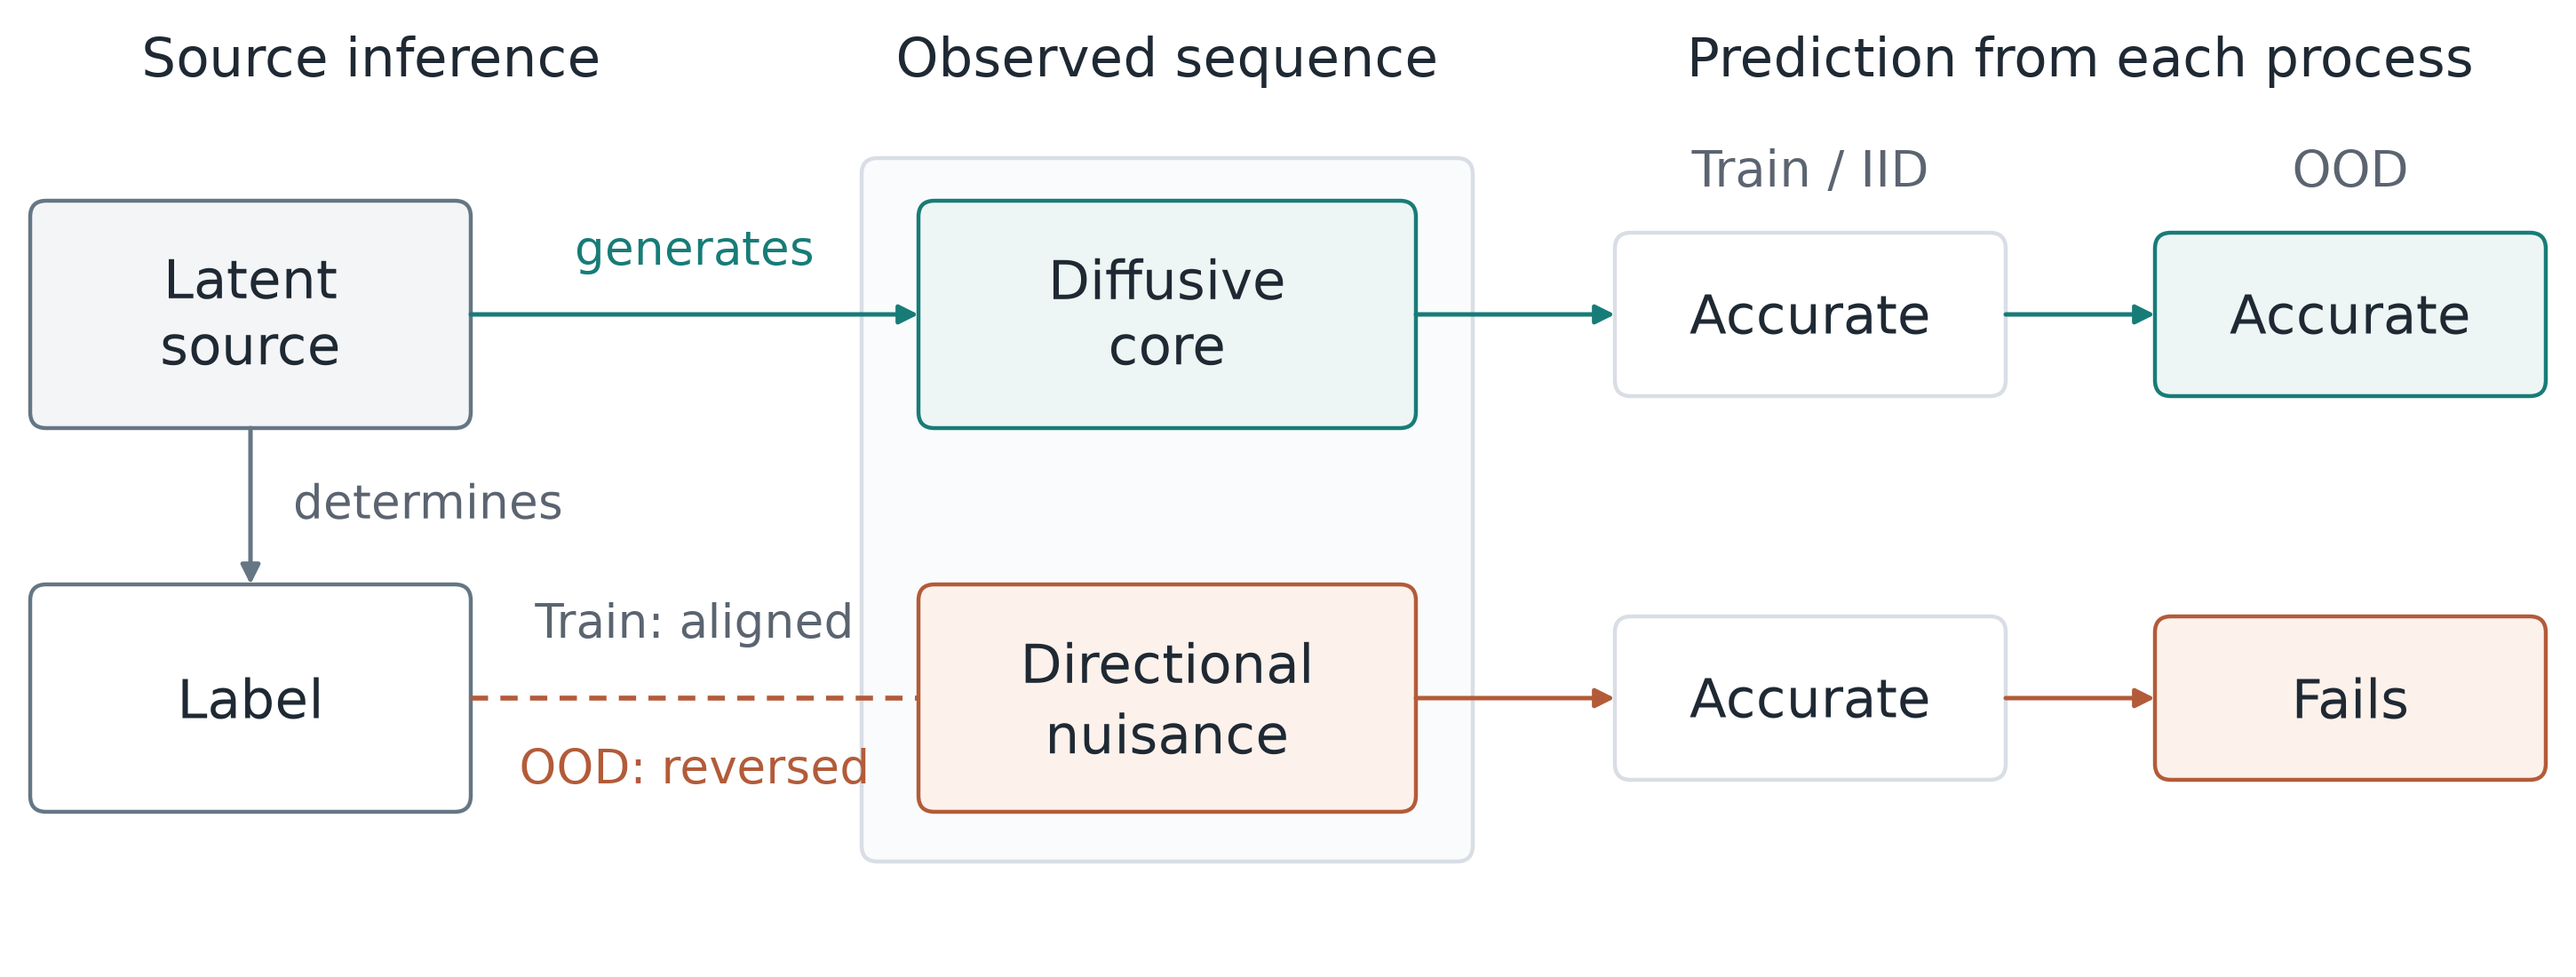
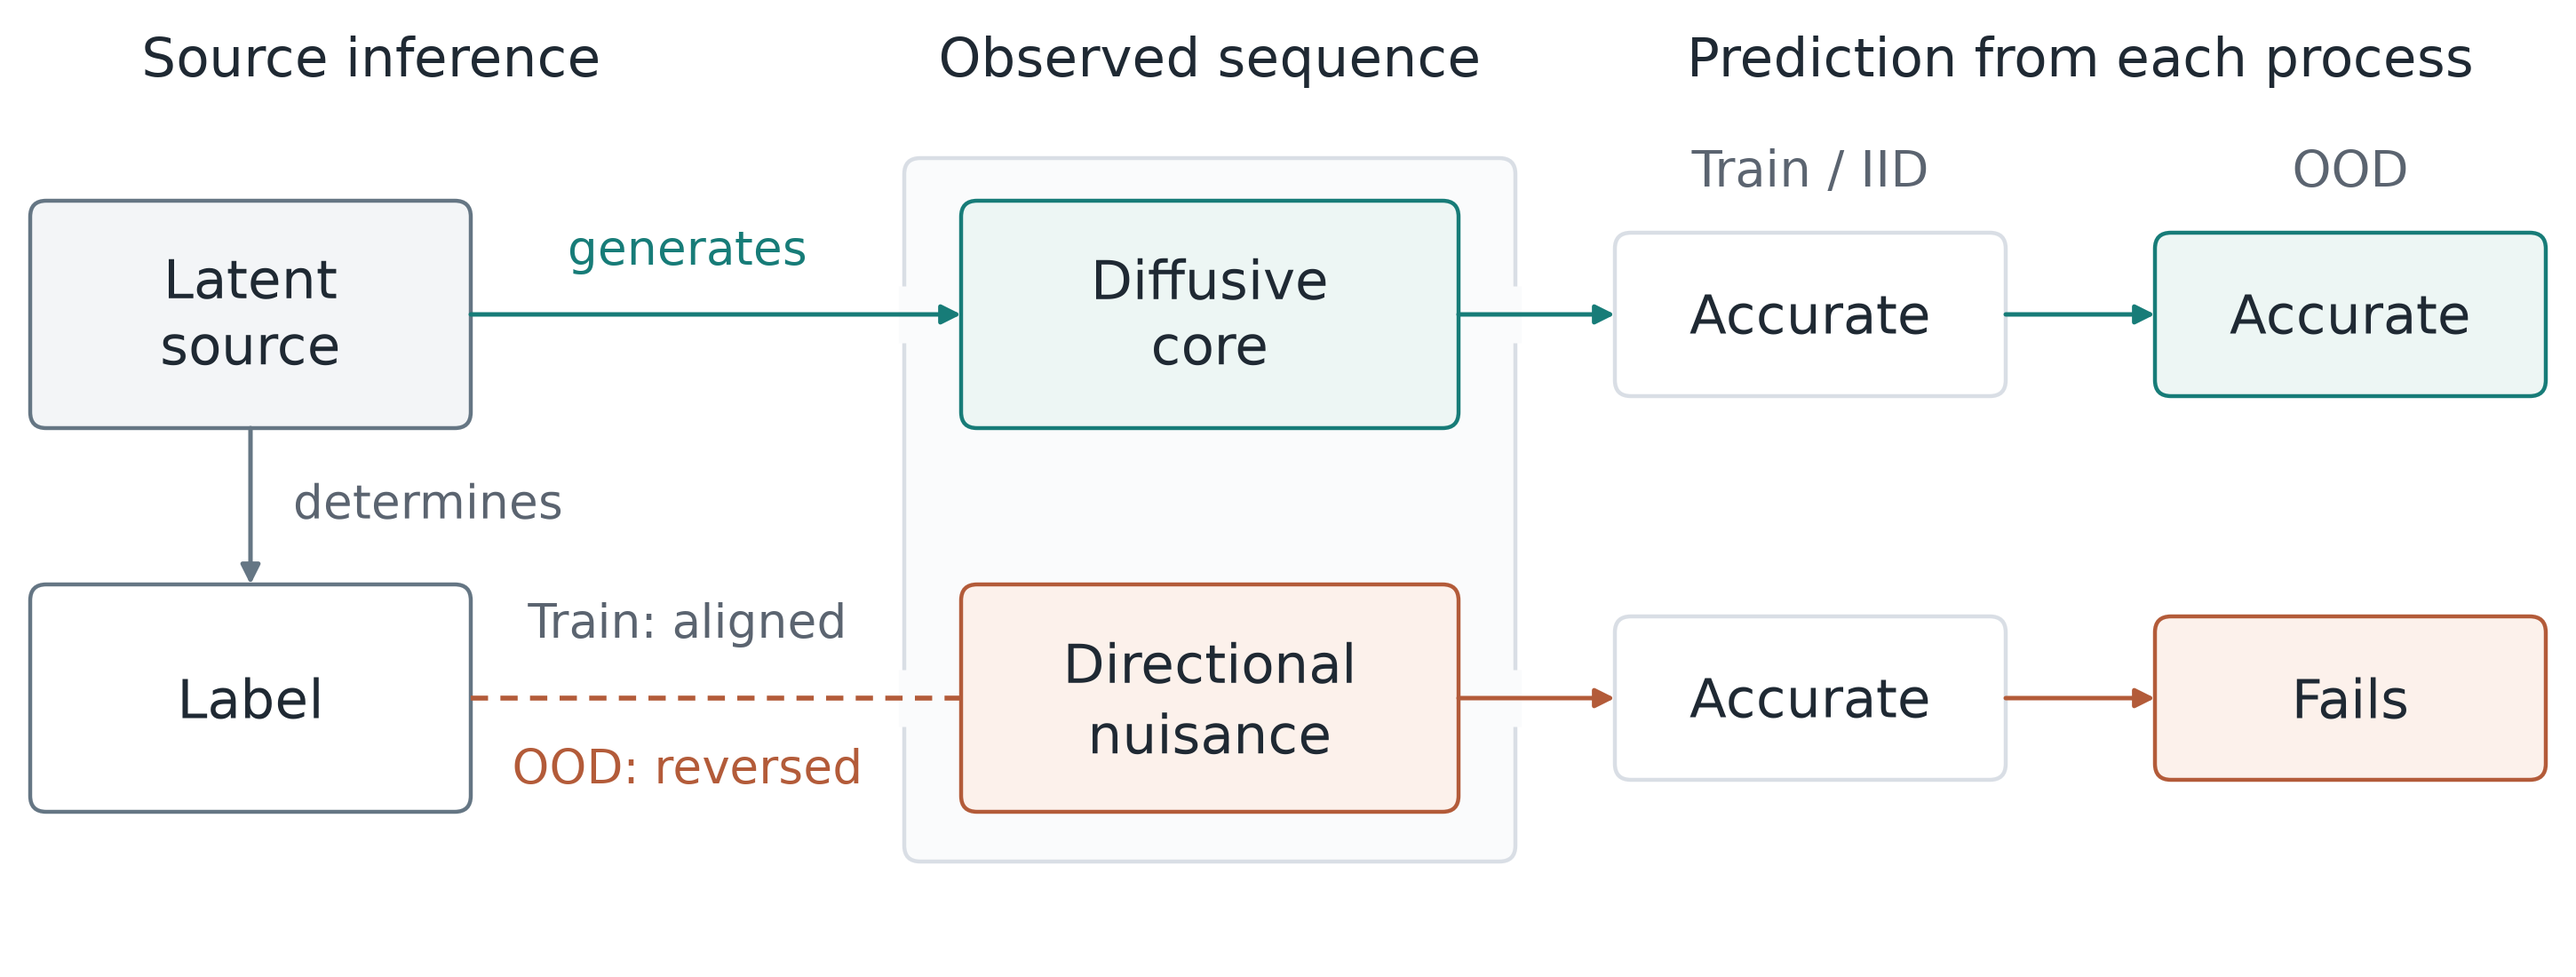
Finalize figures and reproducibility documentation

diff --git a/src/audit.py b/src/audit.py
@@ -7,7 +7,7 @@ from src.data import Split
 from src.evaluate import as_tensor
 from src.train import eval_sequence, train_sequence
 
-# Algorithm 1 lives on Audit.gate1–gate6. Table 5 / Figure 4b sit after run().
+# Measurements for the gates in Algorithm 1; attribution requires their joint interpretation.
 
 
 def train_mlp_probe(x_train, y_train, test_pairs, seed: int, device, epochs: int = 40):
@@ -86,7 +86,7 @@ def eval_channel_intervention(model, x, y, device, channel: int, mode: str, seed
 
 
 class Audit:
-    # Algorithm 1. Privileged access: core-only, nuisance-only, mixed, direction.
+    # Factor-level measurements for Algorithm 1, including mixed-input diagnostics.
 
     def __init__(self, splits: dict[str, Split], seed: int, device, construction_certified: bool = False, no_spurious_splits: dict[str, Split] | None = None):
         self.splits = splits
@@ -184,7 +184,7 @@ class Audit:
             frames["core_label_iid"].append(core_label_iid)
             frames["core_label_ood"].append(core_label_ood)
 
-        # Order-invariant summaries: temporal mean, std, first, middle, first-last.
+        # Order-invariant summaries and position-specific frame probes.
         summaries = {
             "temporal_mean": lambda x: x.mean(axis=1),
             "temporal_std": lambda x: x.std(axis=1),
@@ -252,7 +252,8 @@ class Audit:
 
         single = max(frames["dir_iid"])
 
-        # Route A is construction-certified. Route B is shuffle ≤ 0.6.
+        # Screening label retained in the result records. Full attribution also
+        # requires the chance bounds, reversal test, and Gates 1–5 in Table 2.
         if single >= 0.8:
             locality = "frame-local"
         elif set_acc >= 0.8:
@@ -271,13 +272,13 @@ class Audit:
         }
 
     def run(self) -> dict:
-        # Phase 1. Admissibility of a shortcut reading (Gates 1–5).
+        # Collect Gates 1–5 measurements without applying acceptance thresholds.
         gate1 = self.gate1()
         gate2 = self.gate2()
         gate3 = self.gate3()
         gate4 = self.gate4()
         gate5 = self.gate5()
-        # Phase 2. Locate the cue on the locality spectrum (Gate 6).
+        # Collect locality probes and order interventions for Gate 6.
         gate6 = self.gate6(gate5)
         return {
             "gate1": gate1,

diff --git a/tests/test_audit.py b/tests/test_audit.py
@@ -1,10 +1,8 @@
-import inspect
-
 import torch
 
-from src.audit import Audit, per_sample_shuffle
+from src.audit import SetProbe, per_sample_shuffle
 
-# Gate 6 case formula in Audit.gate6, and Table 5 per-sample shuffle.
+# Order invariance of the set probe and multiset preservation under shuffling.
 
 
 def test_per_sample_shuffle_preserves_multiset():
@@ -18,12 +16,11 @@ def test_per_sample_shuffle_preserves_multiset():
     assert not torch.equal(x, y)
 
 
-def test_gate6_classes():
-    src = inspect.getsource(Audit.gate6)
-    assert "if single >= 0.8:" in src
-    assert 'locality = "frame-local"' in src
-    assert "elif set_acc >= 0.8:" in src
-    assert 'locality = "order-invariant multi-frame"' in src
-    assert "<= 0.6" in src
-    assert 'locality = "order-encoded"' in src
-    assert 'locality = "inconclusive"' in src
+def test_set_probe_is_order_invariant():
+    torch.manual_seed(0)
+    probe = SetProbe(frame_dim=4).eval()
+    frames = torch.randn(5, 8, 4)
+    shuffled = per_sample_shuffle(frames, torch.Generator().manual_seed(1))
+    with torch.no_grad():
+        torch.testing.assert_close(probe(frames), probe(shuffled))
+        torch.testing.assert_close(probe(frames), probe(frames.flip(1)))

diff --git a/src/data.py b/src/data.py
@@ -405,7 +405,7 @@ def build_real_video_cache(src: Path, out: Path, grid: int = 16, length: int = 8
     crops = np.concatenate(all_crops) if all_crops else np.zeros((0,), np.uint8)
     rng.shuffle(crops)
     np.savez_compressed(out, crops=crops)
-    out.with_suffix(".json").write_text(json.dumps({"params": {"src": str(src), "out": str(out), "grid": grid, "length": length}, "clips": meta}, indent=2), encoding="utf-8")
+    out.with_suffix(".json").write_text(json.dumps({"params": {"src": str(src), "out": str(out), "grid": grid, "length": length, "t_stride": t_stride, "short_side": short_side, "per_clip": per_clip, "min_motion": min_motion, "seed": seed}, "clips": meta}, indent=2), encoding="utf-8")
     return crops
 
 

diff --git a/README.md b/README.md
@@ -28,13 +28,11 @@ Logged numbers are under `results/main/`, `results/ablation/`, and `results/revi
 
 ## Code
 
-The files follow the paper, in that order.
-
 `generate_split` in `src/data.py` is Algorithm 2: y, core (Eq. 6), ds (Eq. 4), nuisance (Eqs. 7–8), observation (Eq. 9). `make` in `src/benchmark.py` is Table 3: OE-Strict, FL-Trail, MF-Set, MF-Core, OE-Core. FordA, HAR, and the graph loaders are the Table 9 and Table A11 inputs in the same file.
 
 `SequenceCNNGRU` in `src/models.py` is the main sequence model. Eq. 10 is the predictor, Eq. 11 is ERM, and Eq. 12 is the counterfactual loss: supervised cross-entropy on both inputs plus `0.2 * KL(stopgrad[p(x)] || p(x_cf))`. LSTM, TCN, Transformer, and temporal pooling are Tables A4–A5. `SegGRU` is Table 9. `train_sequence` in `src/train.py` is the reference learner (Table A20). `train_one_method` is Table 7. `train_robust`, `train_dual`, and `train_irm` are Table A6.
 
-`Audit` in `src/audit.py` is Algorithm 1. `gate1` through `gate5` are Phase 1. `gate6` is Phase 2, called as `gate6(gate5)`. `regime` in `src/evaluate.py` is the Table 2 cut, 0.8 / 0.2.
+`src/audit.py` collects factor-level measurements, probes, and order interventions for Algorithm 1. `Audit.run()` returns these measurements and a locality screening label. Apply the joint criteria in Table 2 to establish attribution. `regime` in `src/evaluate.py` labels accuracy outcomes using the 0.8 / 0.2 cuts; it does not certify a shortcut.
 
 `src/experiments.py` runs the tables. The `kind` field in `configs/experiments.yaml` selects the function: `shortcut`, `certify`, and `shuffle` are Table 5; `temporal`, `strict_order`, and `nuisance_order` are Table 6 and Figure 4; `train` is Table 7; `mf_core_probes` and `mf_core_perframe` are Table 8; `ucr` is Table 9. The other kinds are the appendix tables.
 
@@ -43,7 +41,42 @@ pip install -e ".[dev,transfer]"
 python -m src.experiments
 ```
 
-`python -m src.experiments --run table5_oe_strict` runs one key in `configs/experiments.yaml`. A key is skipped when its output is already there; delete that output to write it again. FordA, HAR, and `data/real_video/cache_g16_L8_s5.npz` stay on disk and are not in git.
+`python -m src.experiments --run table5_oe_strict` runs one key in `configs/experiments.yaml`. The full runner skips existing outputs. For a fresh run, copy `configs/` to a local directory, change the selected experiment's `out` path, and pass that directory with `--configs`. Keep the archived results for comparison. Run `python -m pytest -q` to check the generator and model invariants.
+
+## External data
+
+Synthetic inputs are generated from the configurations and seeds. External inputs are downloaded separately:
+
+- **FordA:** place the official [UCR FordA](https://www.timeseriesclassification.com/description.php?dataset=FordA) train/test TSV files at `data/ucr/FordA_TRAIN.tsv` and `data/ucr/FordA_TEST.tsv`.
+- **HAR:** extract the [UCI smartphone activity dataset](https://archive.ics.uci.edu/dataset/240/human+activity+recognition+using+smartphones) under `data/ucr/har/`, retaining the `UCI HAR Dataset` directory and its official train/test split.
+- **Graphs:** NetworkX provides the Karate Club and Les Misérables graphs used by `graph_setup`.
+- **Video:** [urls.json](data/real_video/urls.json) lists the Wikimedia sources. Download entries 0–6 as `clip00.webm`–`clip06.webm` in `data/real_video/`; these are the clips recorded in the [cache metadata](data/real_video/cache_g16_L8_s5.json). The eighth URL is not part of the reported cache. Source credits are listed below.
+
+For the reported video experiments, download [the original cache](https://github.com/GongJae00/spurious-arrow-of-time/releases/download/v0.1.0/cache_g16_L8_s5.npz) to `data/real_video/cache_g16_L8_s5.npz`. It contains 15,263 crops. Regenerating it from the same clips and recorded settings in the checked environment produced 15,261 crops; the cause is unresolved. The [comparison record](results/reviewer/reproduction.json) includes hashes, settings, and per-clip counts.
+
+To regenerate the cache:
+
+```bash
+python -m src.data --out data/real_video/cache_regenerated.npz --t-stride 5 --min-motion 6 --short-side 48 --per-clip 3000 --seed 1234
+```
+
+The cache contains grayscale crops resized to 16 × 16, sampled into eight-frame sequences and normalized to uint8. The adapted video material is distributed under [CC BY-SA 4.0](https://creativecommons.org/licenses/by-sa/4.0/), with the source credits below. This license applies to the video cache, not the code. Raw videos are not redistributed.
+
+<details>
+<summary>Video source credits</summary>
+
+| Source | Creator | Source license |
+|---|---|---|
+| [Tirana traffic lights](https://commons.wikimedia.org/wiki/File:Tirana_traffic_lights.webm) | Lan G. (Lan Glad / Upwinxp) | [CC BY 4.0](https://creativecommons.org/licenses/by/4.0/) |
+| [Behind Kawaida Waterfall](https://commons.wikimedia.org/wiki/File:Video_from_behind_Kawaida_Waterfall_through_hanging_roots,_Kiambu_County.webm) | Lebu Ayiga | [CC BY 4.0](https://creativecommons.org/licenses/by/4.0/) |
+| [Side view of Kawaida Waterfall](https://commons.wikimedia.org/wiki/File:Side_view_video_of_Kawaida_Waterfall_cascading,_Cianda,_Kiambu_County.webm) | Lebu Ayiga | [CC BY 4.0](https://creativecommons.org/licenses/by/4.0/) |
+| [Park Fire](https://commons.wikimedia.org/wiki/File:Smoke_Rises_From_Burning_Flames_of_the_Park_Fire_%28CIRA_2024-07-25_-_nolabels%29.webm) | NOAA / CIRA | Public domain |
+| [Gazan buildings](https://commons.wikimedia.org/wiki/File:Tasnim_News_Agency_-_Footage_from_Israeli_airstrikes_levelling_Gazan_buildings.webm) | Tasnim News Agency | [CC BY 4.0](https://creativecommons.org/licenses/by/4.0/) |
+| [Chandra River](https://commons.wikimedia.org/wiki/File:Chandra_river_flowing_in_Sissu_Valley.webm) | Simrank0599 | [CC BY-SA 4.0](https://creativecommons.org/licenses/by-sa/4.0/) |
+
+The Kyiv clip contributed no accepted crops.
+
+</details>
 
 ## Citation
 
